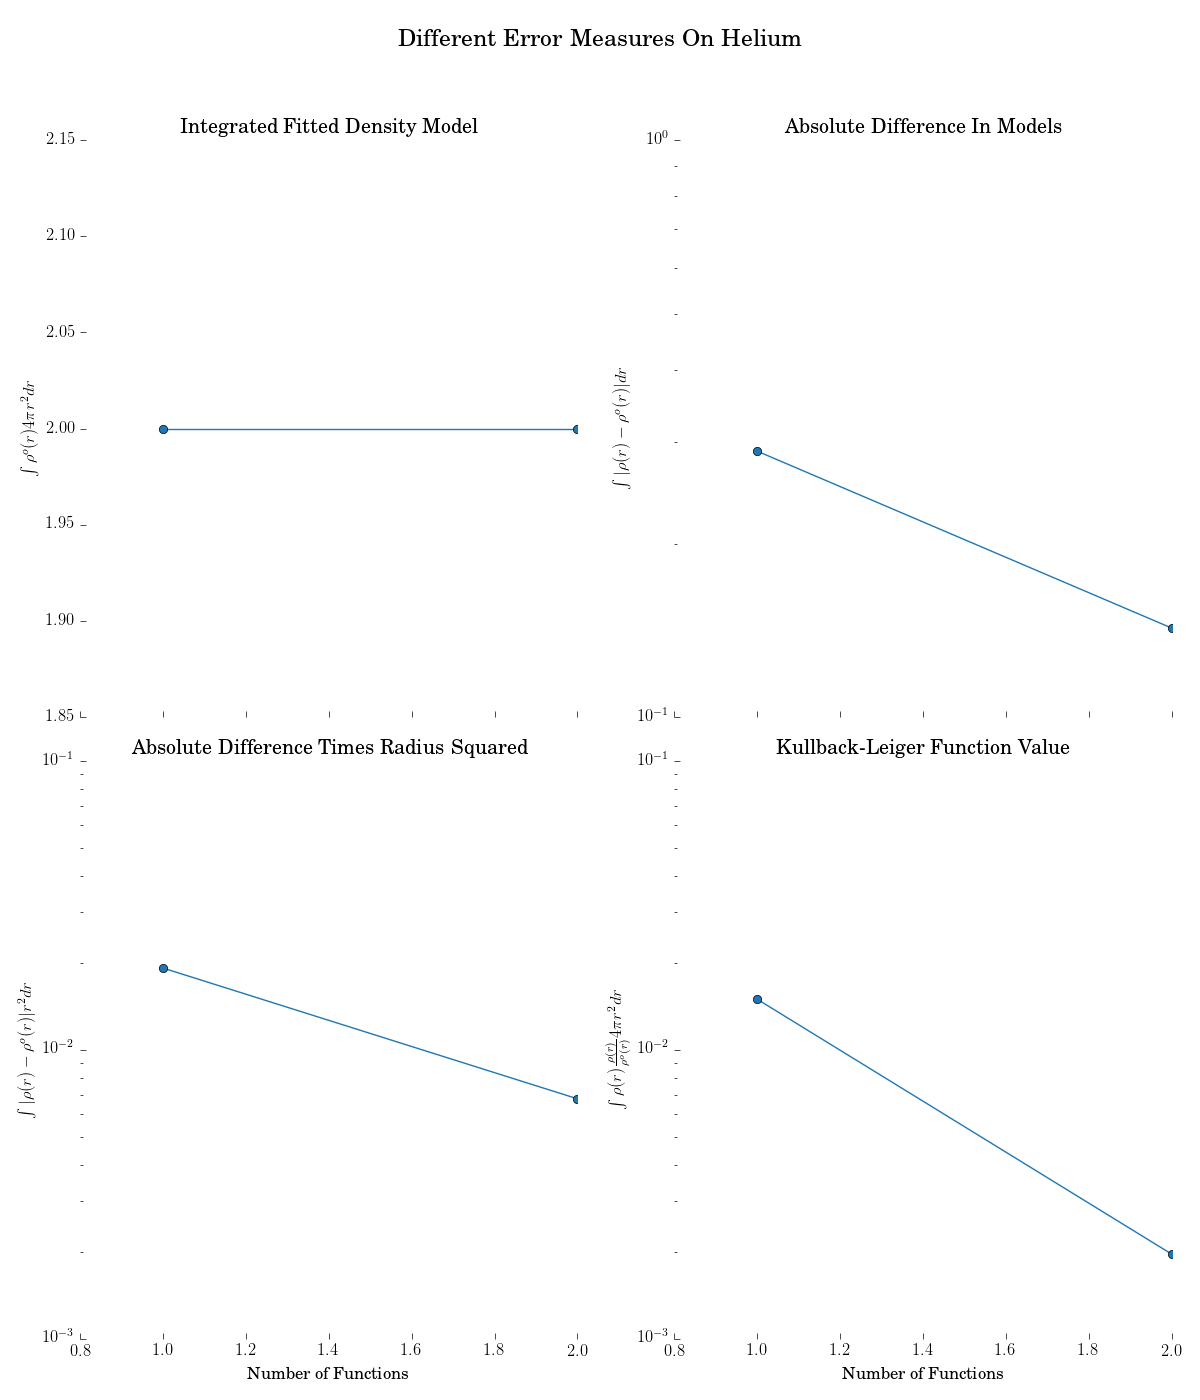
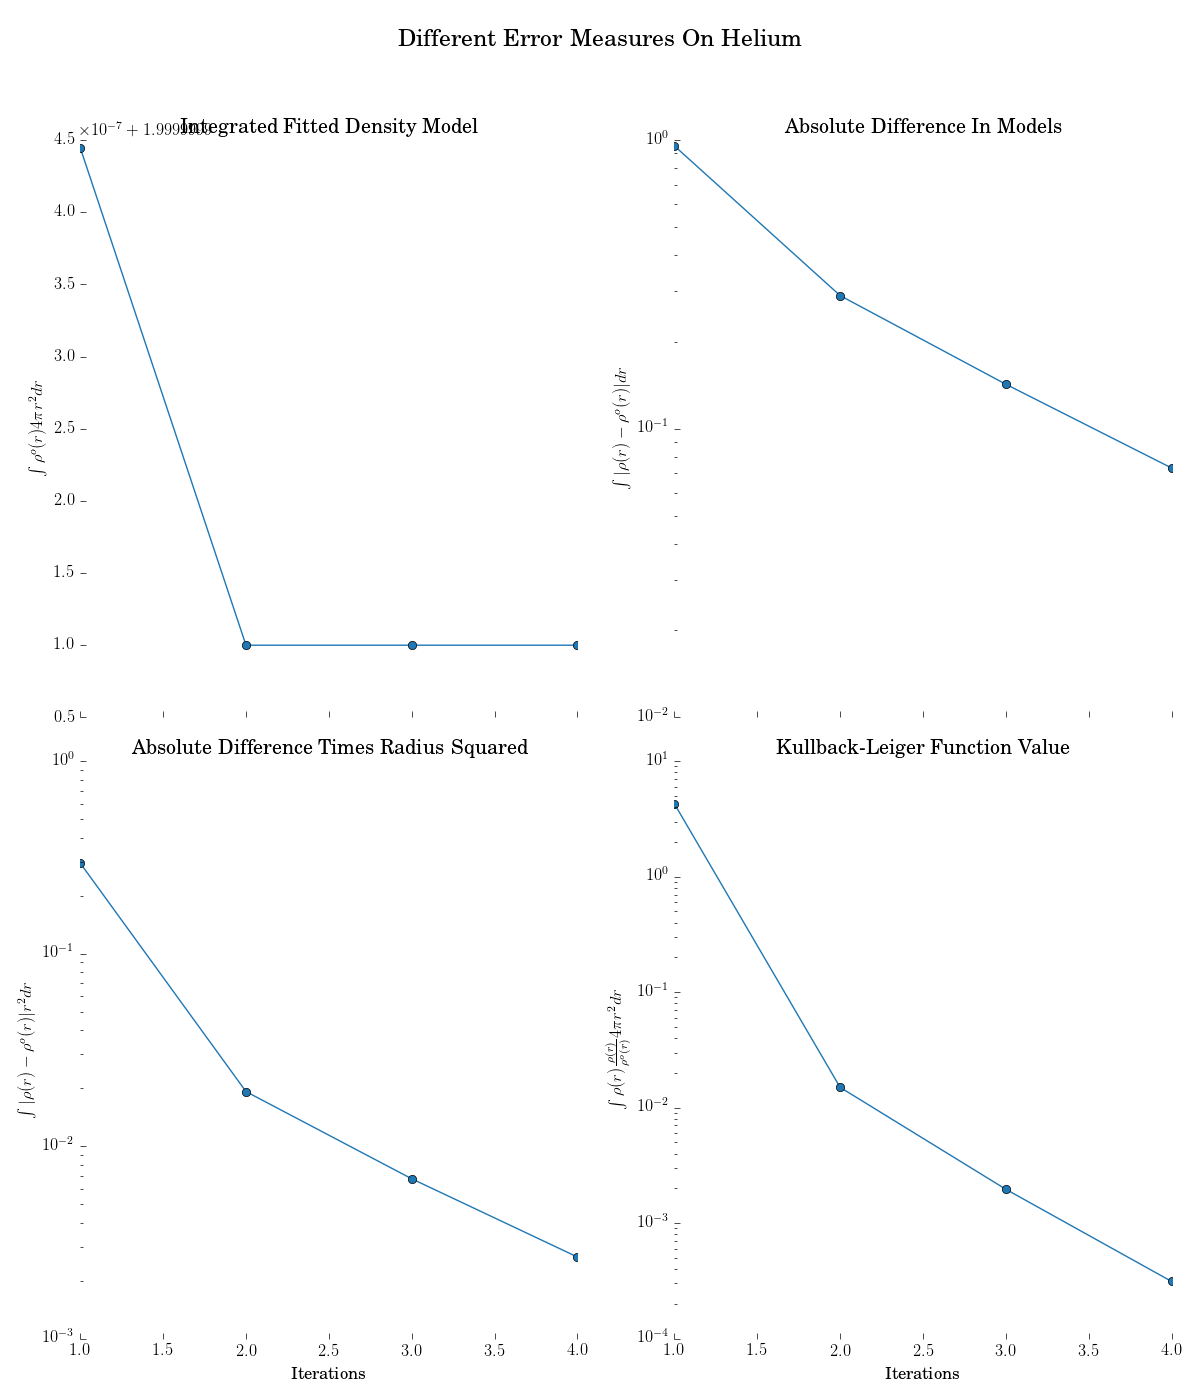
Fixed the plotting errors

diff --git a/fitting/fit/fit_densities.py b/fitting/fit/fit_densities.py
@@ -124,24 +124,25 @@ def plot_error(errors, element_name, title, figure_name):
             axarr[x, y].get_xaxis().tick_bottom()
             axarr[x, y].get_yaxis().tick_left()
     # xrange(1, len(errors[2]) + 1, 2)
-    axarr[0, 0].plot([1] + [x + x - 1  for x in range(2, len(errors[2]) + 1)], errors[0], 'o-', color=tableau20[0])
+    #[1] + [x + x - 1  for x in range(2, len(errors[2]) + 1)]
+    axarr[0, 0].plot(xrange(1, len(errors[2]) + 1, 1), errors[0], 'o-', color=tableau20[0])
     axarr[0, 0].set_title('Integrated Fitted Density Model')
     axarr[0, 0].set_ylabel(r'$\int \rho^o(r) 4 \pi r^2 dr$')
-    axarr[0, 1].semilogy([1] + [x + x - 1  for x in range(2, len(errors[2]) + 1)], errors[1], 'o-', color=tableau20[0])
+    axarr[0, 1].semilogy(xrange(1, len(errors[2]) + 1, 1), errors[1], 'o-', color=tableau20[0])
     axarr[0, 1].set_title('Absolute Difference In Models')
     axarr[0, 1].set_ylabel(r'$\int |\rho(r) - \rho^o(r)| dr$')
-    axarr[1, 0].semilogy([1] + [x + x - 1  for x in range(2, len(errors[2]) + 1)], errors[2], 'o-', color=tableau20[0])
+    axarr[1, 0].semilogy(xrange(1, len(errors[2]) + 1, 1), errors[2], 'o-', color=tableau20[0])
     axarr[1, 0].set_title("Absolute Difference Times Radius Squared")
-    axarr[1, 0].set_xlabel("Number of Functions")
+    axarr[1, 0].set_xlabel("Iterations")
     axarr[1, 0].set_ylabel(r'$\int |\rho(r) - \rho^o(r)| r^2 dr$')
-    axarr[1, 1].semilogy([1] + [x + x - 1  for x in range(2, len(errors[2]) + 1)],errors[3], 'o-', color=tableau20[0])
+    axarr[1, 1].semilogy(xrange(1, len(errors[2]) + 1, 1), errors[3], 'o-', color=tableau20[0])
     axarr[1, 1].set_title('Kullback-Leiger Function Value')
     axarr[1, 1].set_ylabel(r'$\int \rho(r) \frac{\rho(r)}{\rho^o(r)} 4 \pi r^2 dr$')
-    axarr[1, 1].set_xlabel("Number of Functions")
+    axarr[1, 1].set_xlabel("Iterations")
     plt.tight_layout()
     plt.subplots_adjust(top=0.90)
 
-    directory = os.path.dirname(__file__).rsplit('/', 2)[0] + "/fitting/results_redudancies_two/" + element_name
+    directory = os.path.dirname(__file__).rsplit('/', 2)[0] + "/fitting/results/" + element_name
     if not os.path.exists(directory):
         os.makedirs(directory)
     plt.savefig(directory + "/" + figure_name + ".png")
@@ -173,9 +174,12 @@ def plot_model_densities(true_dens, model_dens, grid_pts, title, element_name,
     ax.semilogy(grid_pts, true_dens, '-', lw=3, label="Slater Electron Density",
                 color=(31/255., 119/255., 180/255.))
     if additional_models_plots is not None:
-        for model in additional_models_plots:
-            ax.semilogy(grid_pts, model_dens, 'o-', lw=3, label="Gaussian Fitted Electron Density",
+        for i, model in enumerate(additional_models_plots):
+            if i == 0:
+                ax.semilogy(grid_pts, model_dens, '-', lw=1, label="Gaussian Fitted Electron Density",
                         color=tableau20[7])
+            else:
+                ax.semilogy(grid_pts, model_dens, '-', lw=1, color=tableau20[7])
     # plt.xlim(0, 25.0*0.5291772082999999)
     plt.xlim(0, 9)
     plt.ylim(ymin=1e-9)
@@ -185,7 +189,7 @@ def plot_model_densities(true_dens, model_dens, grid_pts, title, element_name,
     plt.title(title, fontweight='bold')
     plt.grid(color=tableau20[-2])
     plt.legend()
-    directory = os.path.dirname(__file__).rsplit('/', 2)[0] + "/fitting/results_redudancies_two/" + element_name
+    directory = os.path.dirname(__file__).rsplit('/', 2)[0] + "/fitting/results/" + element_name
     if not os.path.exists(directory):
         os.makedirs(directory)
     plt.savefig(directory + "/" + figure_name + ".png")
@@ -331,7 +335,7 @@ def fit_radial_densities(element_name, atomic_number, grid=None, true_density=No
     elif method == "greedy-ls-sqs":
         pass
     elif method == "greedy-mbis":
-        greedy_mbis = GreedyMBIS(element_name, atomic_number, grid, true_density, splitting_func=get_two_next_possible_coeffs_and_exps)
+        greedy_mbis = GreedyMBIS(element_name, atomic_number, grid, true_density, splitting_func=get_next_possible_coeffs_and_exps)
 
         if ioutput:
             params, params_it = greedy_mbis.run_greedy(ioutput=ioutput, **options)
@@ -345,20 +349,29 @@ def fit_radial_densities(element_name, atomic_number, grid=None, true_density=No
     if iplot:
         # Change Grid To Angstrom
         grid.radii *= 0.5291772082999999
-        model = density_model.create_model(params)
+        model = greedy_mbis.mbis_obj.get_normalized_gaussian_density(params[:len(params)//2],
+                                                                     params[len(params)//2:])
         plot_model_densities(true_density, model, grid.radii,
                              title="Electron Density Plot of " + full_names[element_name],
                              element_name=element_name,
                              figure_name="model_plot_using_" + method)
-
+        models_it = []
+        for p in params_it:
+            c, e = p[:len(p)//2], p[len(p)//2:]
+            models_it.append(greedy_mbis.mbis_obj.get_normalized_gaussian_density(c, e))
+        plot_model_densities(true_density, model, grid.radii,
+                             title="Electron Density Plot of " + full_names[element_name],
+                             element_name=element_name,
+                             figure_name="greedy_model_plot_using_" + method,
+                             additional_models_plots=models_it)
         plot_error(error, element_name, "Different Error Measures On " + full_names[element_name],
                    figure_name="error_plot_using_" + method)
 
     if ioutput:
-        dir = os.path.dirname(__file__).rsplit('/', 2)[0] + '/fitting/results_redudancies_two/' + element_name
+        dir = os.path.dirname(__file__).rsplit('/', 2)[0] + '/fitting/results/' + element_name
         file_object = open(dir + '/arguments_' + method + ".txt", "w+")
         file_object.write("Method Used " + method + "\n")
-        file_object.write("Number Of Parameters " + str(len(params)) + "\n")
+        file_object.write("Number Of Basis FUnctions" + str(len(params)//2) + "\n")
         file_object.write("Final Parameters: " + str(params) + "\n")
         file_object.write("Iteration Parameters: " + str(params_it) + "\n")
         file_object.write(str(options) + "\n")
@@ -373,6 +386,7 @@ def fit_radial_densities(element_name, atomic_number, grid=None, true_density=No
 if __name__ == "__main__":
     for i, ele in enumerate(["he", "li", "be", "b", "c", "n", "o", "f", "ne"]):
         j = i + 2
-        fit_radial_densities(ele, j, method='greedy-mbis', options={'max_numb_of_funcs': 30},
+        fit_radial_densities(ele, j, method='greedy-mbis', options={'max_numb_of_funcs': 2},
                              iplot=True, ioutput=True)
+        raise ValueError
 

diff --git a/fitting/fit/greedy_utils.py b/fitting/fit/greedy_utils.py
@@ -99,7 +99,7 @@ class _GreedyStrategy(object):
         best_global_value = 1e10
         storage_of_parameters_per_addition = [global_parameters]
         number_of_redum = 0; initial_factor = factor
-        while number_of_functions <= max_numb_of_funcs and best_global_value >= 1e-5 and number_of_redum < 5:
+        while number_of_functions < max_numb_of_funcs - 1 and best_global_value >= 1e-5 and number_of_redum < 5:
             choices_of_parameters = self.get_next_iteration_of_variables(factor, global_parameters)
             if callable(add_choice_funcs):
                 choices_of_parameters.append(add_choice_funcs(global_parameters))
@@ -122,6 +122,8 @@ class _GreedyStrategy(object):
                 number_of_functions = len(coeffs)
                 number_of_redum += 1
                 factor += 5
+                import sys
+                sys.exit()
             elif best_local_value <= best_global_value:
                 best_global_value = best_local_value
                 global_parameters = self.get_optimization_routine(best_local_param)
@@ -140,7 +142,7 @@ class _GreedyStrategy(object):
                          str(number_of_functions) + " < " + str(max_numb_of_funcs) + \
                          " or Cost function is less than some epsilon " + str(best_global_value) + " <= " + str(1e-5) +\
                          " or number of redudancies found in a row is more than 5, number of redudans are " + \
-                         number_of_redum
+                         str(number_of_redum)
         if ioutput:
             return global_parameters, storage_of_parameters_per_addition
 
